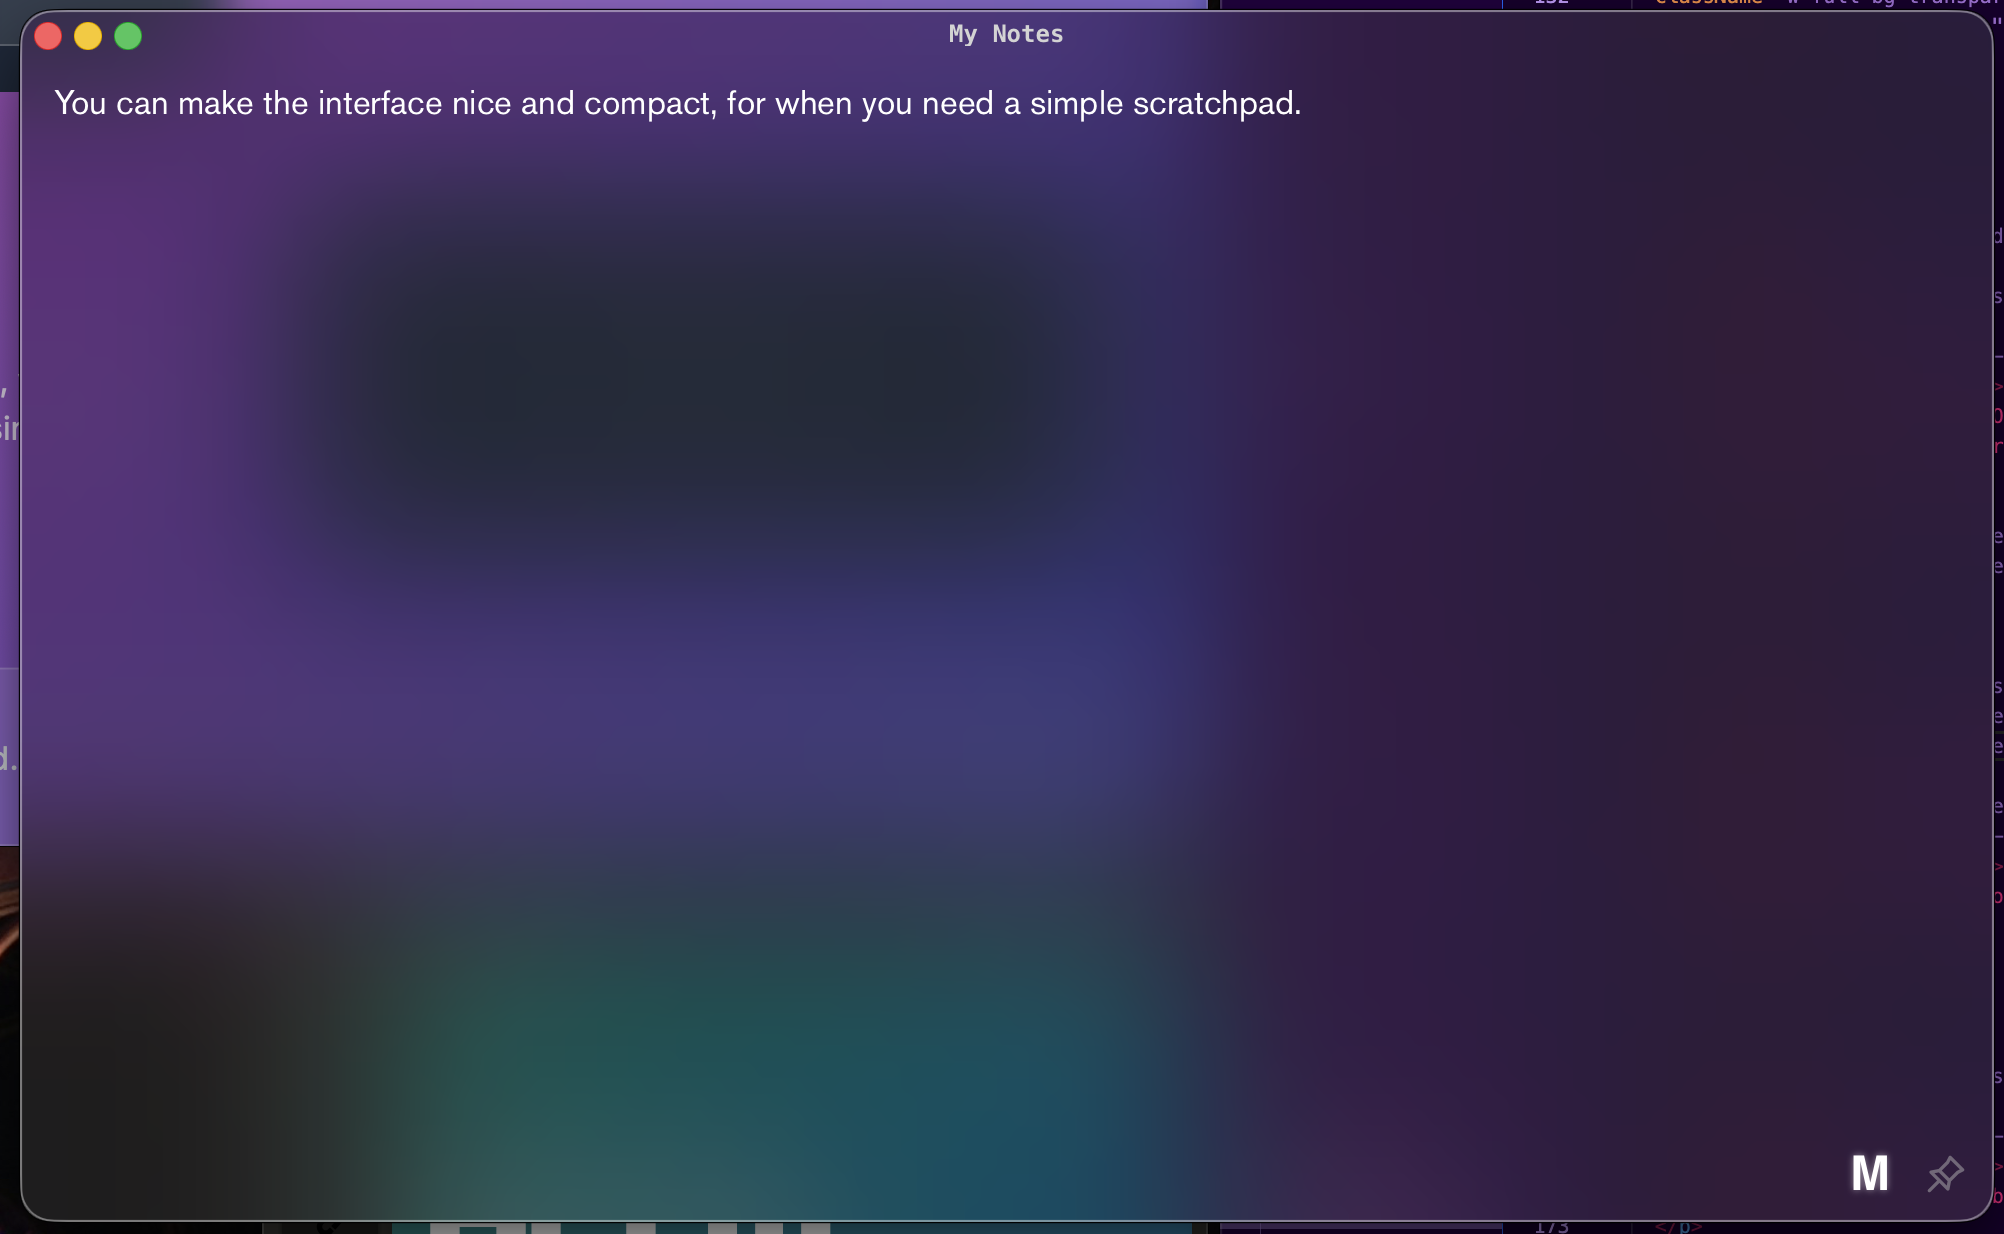
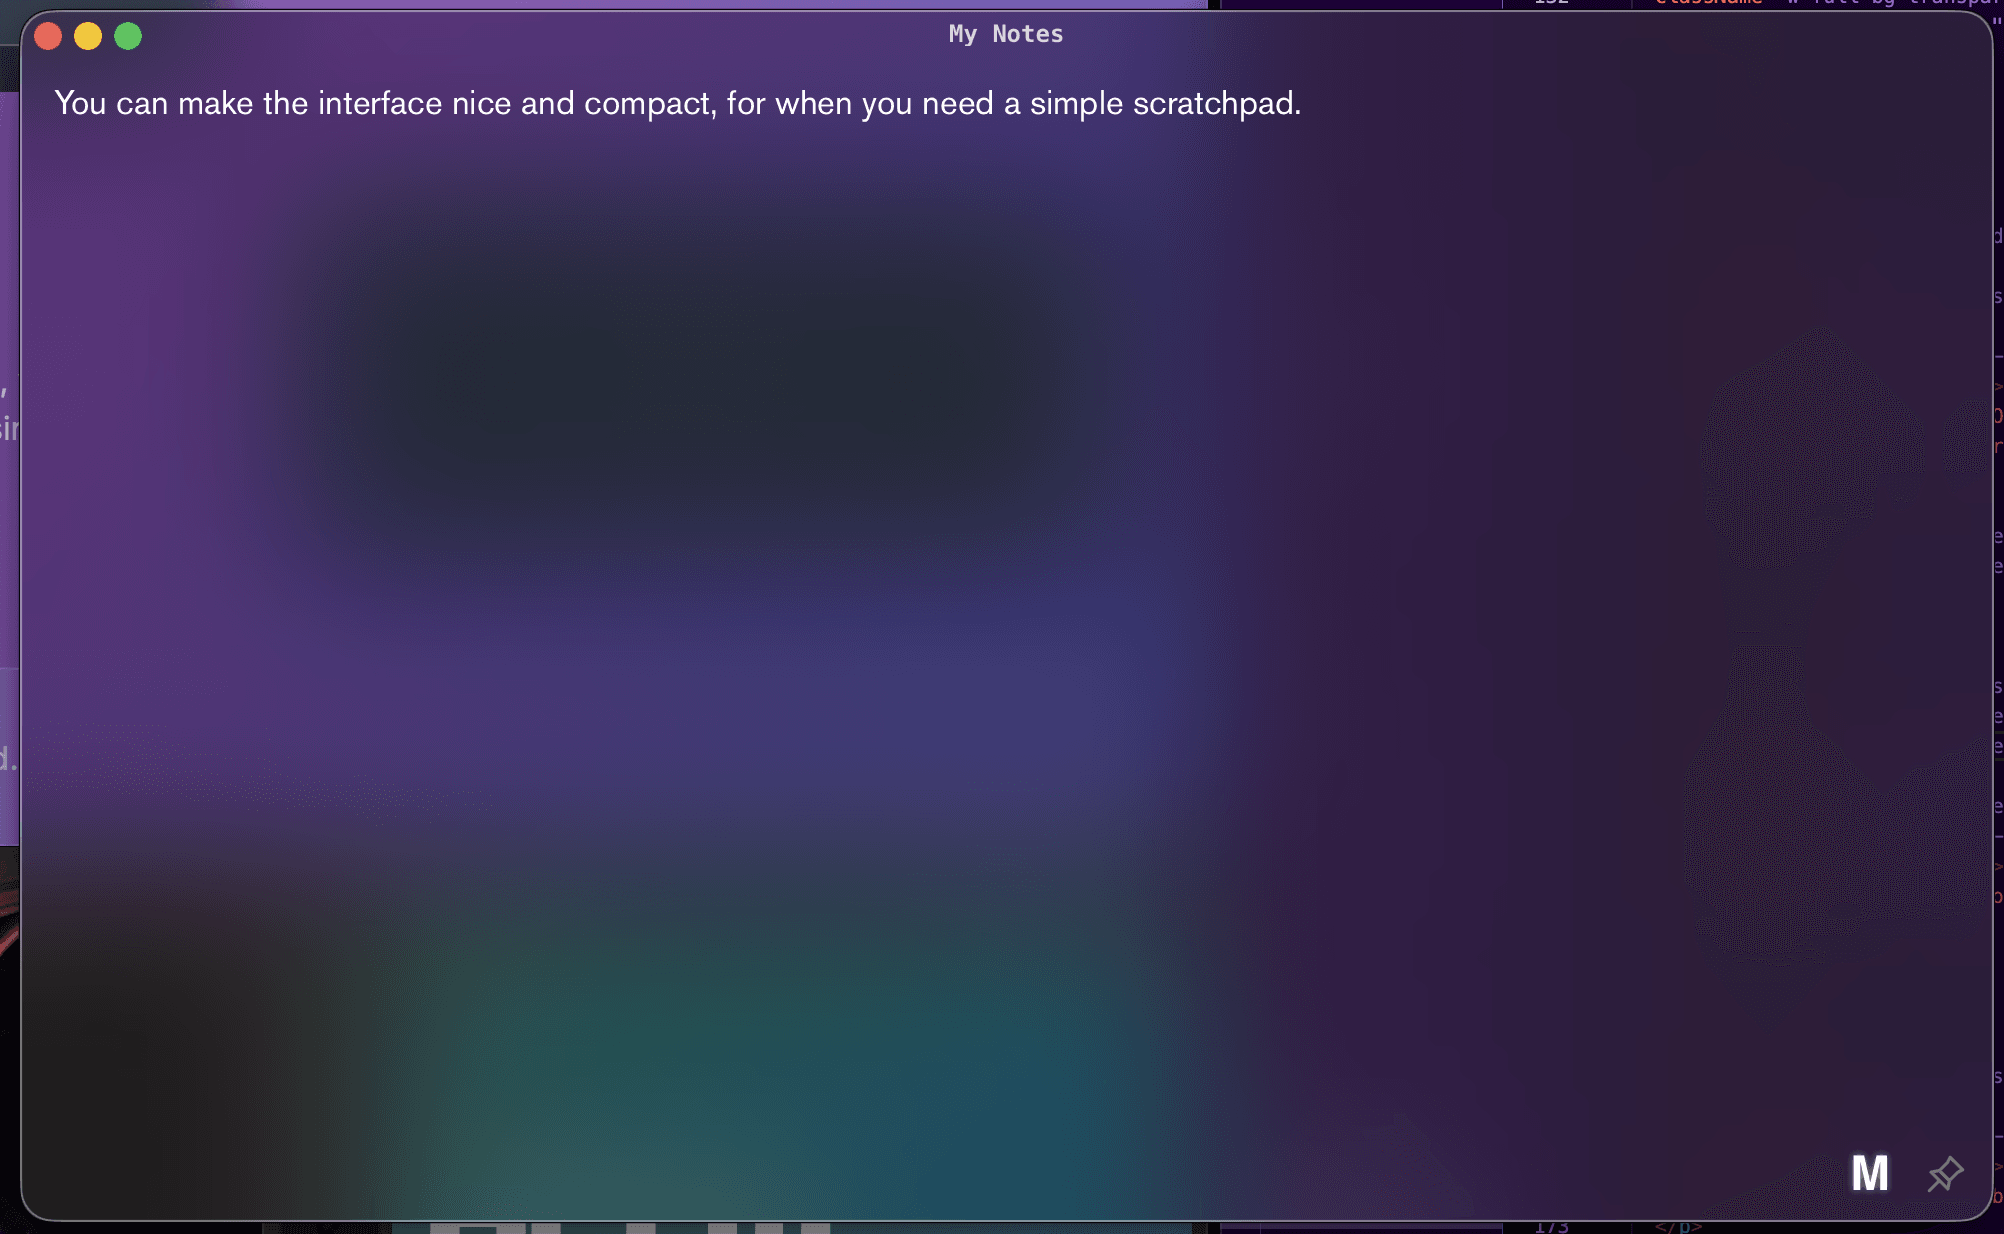
optimize image size using sharp

Changed region(s): [[0.8353, 0.5235, 0.99, 0.7699], [0.8353, 0.2771, 0.99, 0.4619], [0.8663, 0.9546, 0.9281, 0.9854]]

diff --git a/scripts/compress-images.js b/scripts/compress-images.js
@@ -1,0 +1,48 @@
+import sharp from 'sharp';
+import fs from 'fs';
+import path from 'path';
+
+const imageExtensions = ['.png', '.jpg', '.jpeg'];
+const publicDir = path.join(process.cwd(), 'public');
+
+function getAllImageFiles(dir) {
+  let results = [];
+  const list = fs.readdirSync(dir);
+  list.forEach((file) => {
+    const filePath = path.join(dir, file);
+    const stat = fs.statSync(filePath);
+    if (stat && stat.isDirectory()) {
+      results = results.concat(getAllImageFiles(filePath));
+    } else if (imageExtensions.includes(path.extname(file).toLowerCase())) {
+      results.push(filePath);
+    }
+  });
+  return results;
+}
+
+async function compressImage(filePath) {
+  const ext = path.extname(filePath).toLowerCase();
+  try {
+    if (ext === '.png') {
+      await sharp(filePath)
+        .png({ quality: 80, compressionLevel: 9 })
+        .toFile(filePath + '.tmp');
+    } else if (ext === '.jpg' || ext === '.jpeg') {
+      await sharp(filePath)
+        .jpeg({ quality: 80, mozjpeg: true })
+        .toFile(filePath + '.tmp');
+    }
+    fs.renameSync(filePath + '.tmp', filePath);
+    console.log(`Compressed: ${filePath}`);
+  } catch (err) {
+    console.error(`Failed to compress ${filePath}:`, err);
+  }
+}
+
+(async () => {
+  const images = getAllImageFiles(publicDir);
+  for (const img of images) {
+    await compressImage(img);
+  }
+  console.log('Image compression complete!');
+})(); 
